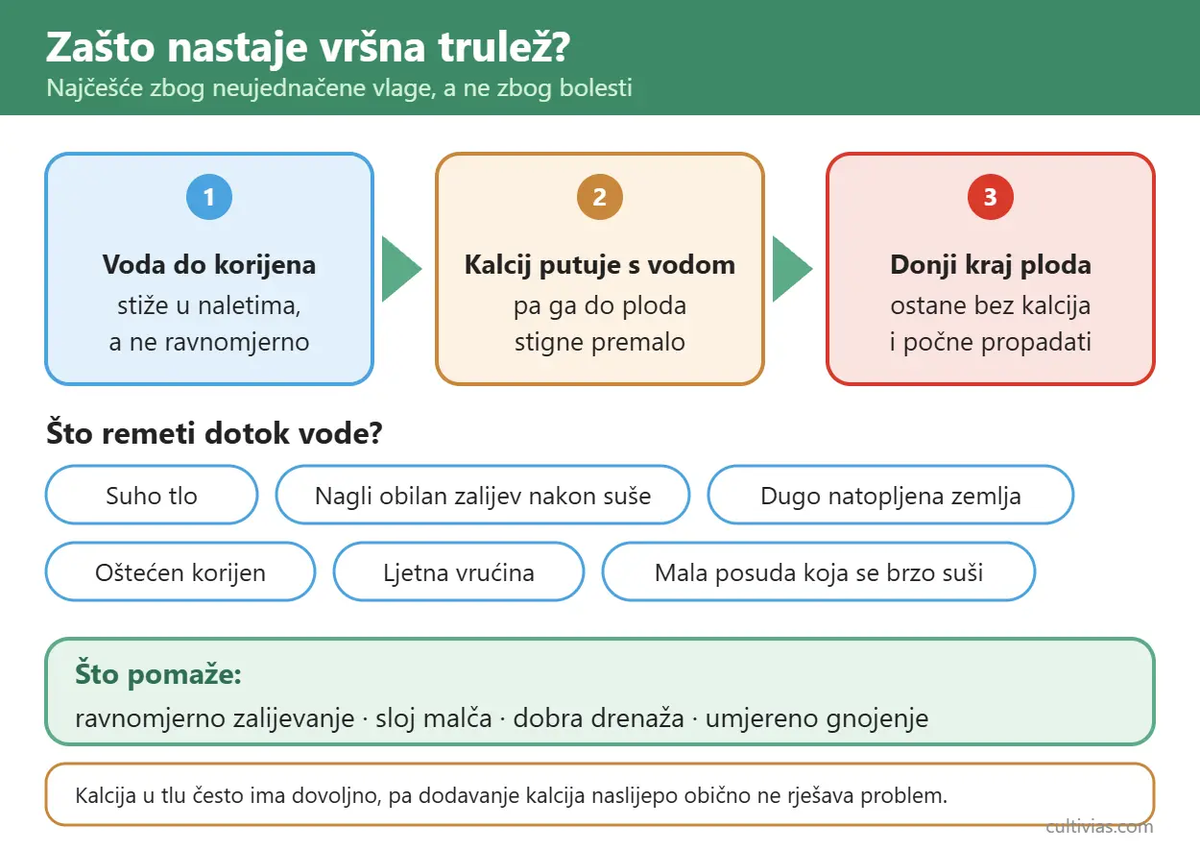
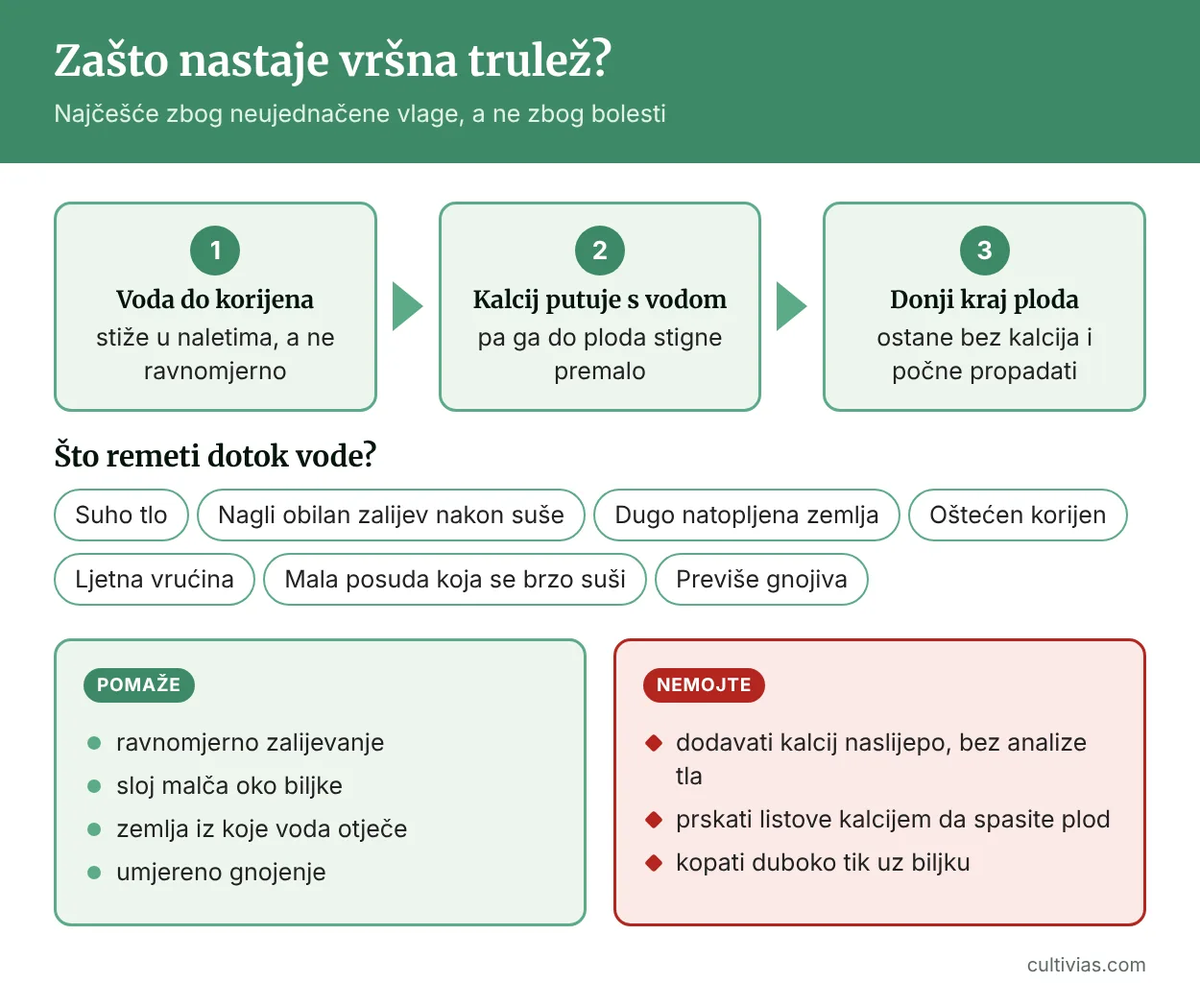
Rajčica (1/3): razmak, tegle, zalijevanje, vršna trulež – stil, linkovi, infografike
- Reference opisane na hrvatskom, više internih linkova s anchor tekstom
- Prerađene infografike: tegla, test prsta, vršna trulež (izgled i uzrok)
- Bez promjene informacija, updatedAt nije diran

Claude-Session: https://claude.ai/code/session_01EBi2SCu3iP7XhSy3L9WRfJ

Changed region(s): [[0.0, 0.0305, 1.0, 0.9763]]

diff --git a/src/content/articles/sadnja-rajcica-u-tegle-na-balkonu.md b/src/content/articles/sadnja-rajcica-u-tegle-na-balkonu.md
@@ -5,7 +5,7 @@ author: redakcija
 image: /images/articles/sadnja-rajcica-u-tegle-na-balkonu.webp
 perex: >-
   Rajčica u tegli uspijeva ako ima veliku posudu s rupama na dnu, najmanje šest sati izravnog sunca, rahlu zemlju za povrće i redovitu vlagu. Na balkonu je najlakše uzgajati niske rajčice. Visoke traže veću teglu, čvrst oslonac i češće vezivanje.
-readTime: 4
+readTime: 5
 publishedAt: 2026-11-20
 expert_reviewed: false
 featured: false
@@ -21,38 +21,38 @@ noindex: false
 ---
 ## Koju teglu i zemlju odabrati?
 
-Za jednu običnu rajčicu uzmite posudu od najmanje 15 litara. Za bujniju biljku radije uzmite 20 litara ili više. [Iowa State University Extension](https://yardandgarden.extension.iastate.edu/how-to/growing-tomatoes-containers) navodi najmanje četiri galona za standardne rajčice. [Oregon State University Extension](https://extension.oregonstate.edu/catalog/ec-1333-grow-your-own-tomatoes-tomatillos) za niske sorte traži posudu dubine najmanje 12 inča, to jest oko 30 cm. Veća tegla ima više mjesta za korijen i sporije se suši.
+Za jednu običnu [rajčicu](https://www.cultivias.com/bilje/sve-%C5%A1to-trebate-znati-o-raj%C4%8Dici-od-sadnje-do-zdravstvenih-benefita/) uzmite posudu od najmanje 15 litara, a za bujniju biljku radije 20 litara ili više. Savjetodavna služba Sveučilišta Iowa State (Iowa State University Extension), jedna od američkih sveučilišnih službi koje izdaju upute za vrtlare, [za standardne rajčice navodi](https://yardandgarden.extension.iastate.edu/how-to/growing-tomatoes-containers) najmanje četiri galona, odnosno oko 15 litara. Savjetodavna služba Sveučilišta Oregon State (Oregon State University Extension) [za niske sorte traži](https://extension.oregonstate.edu/catalog/ec-1333-grow-your-own-tomatoes-tomatillos) posudu duboku najmanje 12 inča, to jest oko 30 cm. U većoj tegli korijen ima više mjesta, a zemlja se sporije suši.
 
-Tegla mora imati nekoliko rupa na dnu. Ne stavljajte u nju zemlju iz vrta. Takva se zemlja u posudi zbija, a tegla postane teška za pomicanje. Kupite gotovu zemlju za povrće, to jest mješavinu za sadnju u posudama. Dobra mješavina propušta višak vode, ali je zadržava dovoljno dugo da je korijen stigne upiti.
+Tegla mora imati nekoliko rupa na dnu. Zemlju iz vrta nemojte stavljati u posudu, jer se u njoj zbija, a tegla postane preteška za pomicanje. Kupite gotovu zemlju za povrće, odnosno mješavinu za sadnju u posudama. Dobra mješavina propušta višak vode, ali je zadržava dovoljno dugo da je korijen stigne upiti.
 
-Rajčice su uglavnom niske ili visoke. Niske (grmolike) sorte prestanu rasti kad dosegnu određenu visinu. Stručno se zovu determinantne. Visoke sorte, stručno indeterminantne, rastu cijelu sezonu pa trebaju veću teglu i višu potporu. Razliku detaljnije objašnjava [pregled sorti rajčice](https://www.cultivias.com/povrce/sorte-paradajza-kompletan-vodi%C4%8D-kroz-determinantne-indeterminantne-i-druge-vrste/).
+Rajčice su uglavnom niske ili visoke. Niske, grmolike sorte prestanu rasti kad dosegnu određenu visinu i stručno se zovu [determinantne](https://www.cultivias.com/povrce/sorte-paradajza-kompletan-vodi%C4%8D-kroz-determinantne-indeterminantne-i-druge-vrste/). Visoke ili indeterminantne sorte rastu cijelu sezonu, pa trebaju veću teglu i višu potporu.
 
-![Infografika: što rajčici treba u tegli, od 15 litara volumena i dubine oko 30 cm do rupa za odvod vode, zemlje za povrće, štapa i jedne biljke po tegli](/images/articles/infografika-tegla-za-rajcicu.webp)
+![Infografika: što rajčici treba u tegli, od 15 litara volumena i dubine oko 30 cm do rupa za odvod vode, zemlje za povrće i štapa, uz upozorenje da se ne koristi vrtna zemlja i ne sade dvije rajčice u istu teglu](/images/articles/infografika-tegla-za-rajcicu.webp)
 
 ## Kako posaditi rajčicu korak po korak?
 
-Presadnica je mlada biljka koju kupite u rasadniku ili sami uzgojite iz sjemena. Iznesite je na balkon tek kad prođe opasnost od mraza. Prije toga je nekoliko dana privikavajte na vanjske uvjete: neka sve dulje boravi na svjetlu, vjetru i hladnijim noćima. Ako je sadnica uzgojena u kući, nemojte je prvog dana ostaviti cijelo poslijepodne na jakom suncu.
+Presadnica je mlada biljka koju kupite u rasadniku ili sami uzgojite iz sjemena. Na balkon je iznesite tek kad prođe opasnost od mraza. Prije toga je nekoliko dana privikavajte na vanjske uvjete: neka svaki dan sve dulje boravi na svjetlu, vjetru i hladnijem zraku. Sadnicu uzgojenu u kući nemojte prvog dana ostaviti cijelo poslijepodne na jakom suncu.
 
-1. Teglu napunite zemljom tako da korijen sadnice, zajedno sa zemljom oko njega, nakon sadnje bude malo ispod ruba tegle.
-2. Pažljivo izvadite sadnicu iz lončića i nemojte jako trgati korijen. Donje listove možete otkinuti pa stabljiku posaditi dublje. Rajčica na ukopanom dijelu stabljike razvija dodatno korijenje.
+1. Teglu napunite zemljom toliko da korijen sadnice, zajedno sa zemljom oko njega, nakon sadnje bude malo ispod ruba tegle.
+2. Pažljivo izvadite sadnicu iz lončića, bez trganja korijena. Donje listove možete otkinuti i stabljiku posaditi dublje, jer rajčica na ukopanom dijelu stabljike razvija dodatno korijenje.
 3. Dopunite zemlju, lagano je pritisnite i obilno zalijte, dok voda ne poteče kroz rupe na dnu.
-4. Odmah privežite stabljiku uz štap mekanom vrpcom. Visoke biljke ne ostavljajte bez oslonca. Pod težinom plodova lako polegnu.
+4. Stabljiku odmah privežite uz štap mekanom vrpcom. Visoke biljke ne ostavljajte bez oslonca, jer pod težinom plodova lako polegnu.
 
-Ne sadite dvije rajčice u jednu teglu od 15 ili 20 litara. Natječu se za vodu i hranu, a lišće se prebrzo zgusne.
+U jednu teglu od 15 ili 20 litara ne sadite dvije rajčice. Natječu se za vodu i hranu, a lišće se brzo previše zgusne.
 
 ## Kako zalijevati i gnojiti rajčicu u tegli?
 
-Zemlja neka bude stalno vlažna, ali ne blatna. Gurnite prst u zemlju. Ako je gornji sloj suh, zalijte polako, dok malo vode ne poteče ispod tegle. Ljeti, uz jako sunce i vjetar, rajčica u tegli može trebati vodu svaki dan, a ponekad i češće. [University of Minnesota Extension](https://extension.umn.edu/garden-and-home/yard-and-garden/gardening-in-minnesota/fertilizing-and-watering-container-plants) upozorava da posude ne smiju ostati potpuno suhe, ali ni stajati u vodi.
+Zemlja treba biti stalno vlažna, ali ne blatna. Gurnite prst u zemlju: ako je gornji sloj suh, zalijte polako, dok malo vode ne poteče ispod tegle. Ljeti, uz jako sunce i vjetar, rajčica u tegli može trebati vodu svaki dan, a ponekad i češće. Savjetodavna služba Sveučilišta Minnesota (University of Minnesota Extension) [upozorava](https://extension.umn.edu/garden-and-home/yard-and-garden/gardening-in-minnesota/fertilizing-and-watering-container-plants) da se zemlja u posudama ne smije potpuno isušiti, ali ni stajati u vodi.
 
-Vodu lijevajte uz zemlju, a ne po lišću, osobito ne predvečer. Neujednačeno zalijevanje potiče pucanje plodova i [vršnu trulež](https://www.cultivias.com/povrce/zasto-rajcica-trune-odozdo-vrsna-trulez/), a to je tamna, suha mrlja na donjem kraju ploda. Podložak ispod tegle redovito ispraznite. Više o zalijevanju čitajte u članku [Zalijevanje rajčica](https://www.cultivias.com/povrce/zalijevanje-rajcica-koliko-cesto-i-kako/).
+Vodu lijevajte uz zemlju, a ne po lišću, osobito ne predvečer. Neujednačeno zalijevanje potiče pucanje plodova i [vršnu trulež](https://www.cultivias.com/povrce/zasto-rajcica-trune-odozdo-vrsna-trulez/), tamnu, suhu mrlju na donjem kraju ploda. Podložak ispod tegle redovito praznite. Koliko često i kako zalijevati, opisuje članak o [zalijevanju rajčica](https://www.cultivias.com/povrce/zalijevanje-rajcica-koliko-cesto-i-kako/).
 
-Ako je u zemlji već gnojivo sporog djelovanja, koje se otapa postupno kroz više tjedana, s gnojenjem pričekajte i slijedite upute na pakiranju. Inače se tekuće gnojivo za plodovito povrće obično dodaje kad se biljka ukorijeni, često jednom u jedan do dva tjedna, ali uvijek prema uputi proizvođača. Više gnojiva ne znači raniju berbu.
+Ako u zemlji već ima gnojiva sporog djelovanja, koje se otapa postupno kroz više tjedana, s gnojenjem pričekajte i slijedite upute na pakiranju. Inače se tekuće gnojivo za plodovito povrće obično dodaje kad se biljka ukorijeni, najčešće jednom u jedan do dva tjedna, ali uvijek prema uputi proizvođača. Više gnojiva ne znači raniju berbu.
 
 ## Koje su najčešće pogreške na balkonu?
 
-Najčešće se griješi s premalom teglom, sjenovitim mjestom i povremenim obilnim zalijevanjem nakon što se zemlja potpuno osuši. Ako se biljka naginje, listovi su mlitavi ili voda odmah procuri uz rub tegle, provjerite korijen i kakva je zemlja.
+Najčešće se griješi s premalom teglom, sjenovitim mjestom i obilnim zalijevanjem tek kad se zemlja potpuno osuši. Ako se biljka naginje, listovi su mlitavi ili voda odmah procuri uz rub tegle, provjerite korijen i kakva je zemlja.
 
-Više praktičnih savjeta o sadnicama i dubljoj sadnji pronaći ćete u [Vodiču za sadnju rajčice](https://www.cultivias.com/povrce/vodi%C4%8D-za-sadnju-raj%C4%8Dice-sve-%C5%A1to-trebate-znati-za-obilan-urod/). Na balkonu najviše pažnje posvetite veličini tegle, suncu i vodi.
+Više savjeta o sadnicama i dubljoj sadnji pronaći ćete u [vodiču za sadnju rajčice](https://www.cultivias.com/povrce/vodi%C4%8D-za-sadnju-raj%C4%8Dice-sve-%C5%A1to-trebate-znati-za-obilan-urod/). Na balkonu najviše pažnje posvetite veličini tegle, suncu i vodi. U teglama se uz rajčicu lako uzgaja i bilje, poput [mente](https://www.cultivias.com/bilje/kako-uzgojiti-mentu-u-tegli-kod-ku%C4%87e/) ili [kamilice](https://www.cultivias.com/bilje/uzgoj-kamilice-na-balkonu-u-tegli-da-mogu%C4%87e-je/).
 
 ## Često postavljana pitanja
 
@@ -62,18 +62,18 @@ Može, ako je kanta čista, dovoljno velika i ima rupe za odvod vode. Za jednu o
 
 ### Koliko sunca treba balkonska rajčica?
 
-Najmanje šest sati izravnog sunca na dan. Što je mjesto sunčanije i toplije, to rajčica obično bolje raste i plodovi se brže zriju.
+Najmanje šest sati izravnog sunca na dan. Na sunčanijem i toplijem mjestu rajčica u pravilu bolje raste, a plodovi brže dozrijevaju.
 
 ### Treba li rajčici u tegli potpora?
 
-Da. I niske sorte često trebaju štap ili mali kavez, to jest okvir od žice u kojem se biljka drži. Visoke sorte traže čvršću potporu i redovito vezivanje.
+Da. I niske sorte često trebaju štap ili mali kavez, odnosno žičani okvir koji drži biljku. Visoke sorte traže čvršću potporu i redovito vezivanje.
 
 ### Zašto rajčica u tegli vene iako je zalivena?
 
-Mogući razlozi su premala tegla, začepljene rupe na dnu ili natopljena zemlja. Provjerite otječe li višak vode i je li zemlja oko korijena potpuno suha ili stalno mokra.
+Mogući su uzroci premala tegla, začepljene rupe na dnu ili natopljena zemlja. Provjerite otječe li višak vode i je li zemlja oko korijena potpuno suha ili stalno mokra.
 
 ## Izvori
 
-- [Iowa State University Extension and Outreach: Growing Tomatoes in Containers](https://yardandgarden.extension.iastate.edu/how-to/growing-tomatoes-containers)
-- [Oregon State University Extension Service: Grow your own tomatoes and tomatillos](https://extension.oregonstate.edu/catalog/ec-1333-grow-your-own-tomatoes-tomatillos)
-- [University of Minnesota Extension: Fertilizing and watering container plants](https://extension.umn.edu/garden-and-home/yard-and-garden/gardening-in-minnesota/fertilizing-and-watering-container-plants)
+- Savjetodavna služba Sveučilišta Iowa State (Iowa State University Extension and Outreach) – [Uzgoj rajčica u posudama (Growing Tomatoes in Containers)](https://yardandgarden.extension.iastate.edu/how-to/growing-tomatoes-containers)
+- Savjetodavna služba Sveučilišta Oregon State (Oregon State University Extension Service) – [Uzgojite vlastite rajčice i tomatilje (Grow your own tomatoes and tomatillos)](https://extension.oregonstate.edu/catalog/ec-1333-grow-your-own-tomatoes-tomatillos)
+- Savjetodavna služba Sveučilišta Minnesota (University of Minnesota Extension) – [Gnojenje i zalijevanje biljaka u posudama (Fertilizing and watering container plants)](https://extension.umn.edu/garden-and-home/yard-and-garden/gardening-in-minnesota/fertilizing-and-watering-container-plants)

diff --git a/src/content/articles/zalijevanje-rajcica-koliko-cesto-i-kako.md b/src/content/articles/zalijevanje-rajcica-koliko-cesto-i-kako.md
@@ -19,53 +19,54 @@ metaTitle: "Zalijevanje rajčica: koliko često i kako pravilno"
 metaDescription: "Saznajte koliko često zalijevati rajčice, koliko vode trebaju, kada zalijevati i kako izbjeći mokro lišće, pucanje plodova i vršnu trulež."
 noindex: false
 ---
+
 ## Što vam treba prije zalijevanja
 
-Dovoljni su kanta ili crijevo s blagim mlazom i mala lopatica. Ako želite mjeriti koliko je vode palo, može poslužiti kišomjer. Rajčica bolje iskoristi vodu kad ona polako prodre do korijena nego kad otječe po površini.
+Dovoljni su kanta ili crijevo s blagim mlazom i mala lopatica, a ako želite znati koliko je kiše palo, poslužit će i kišomjer. [Rajčica](https://www.cultivias.com/bilje/sve-%C5%A1to-trebate-znati-o-raj%C4%8Dici-od-sadnje-do-zdravstvenih-benefita/) bolje iskoristi vodu koja polako prodre do korijena nego onu koja otječe po površini.
 
-Oko biljke očistite korov i zemlju prekrijte slojem malča. Malč je sloj slame, suhe trave ili usitnjene kore koji štiti zemlju od sunca. Zbog njega voda sporije isparava, pa ćete na sunčanom mjestu zalijevati rjeđe. Ako rajčicu uzgajate u posudi, provjerite rupe na dnu: višak vode mora izaći, a ne ostati oko korijena.
+Oko biljke očistite korov i zemlju prekrijte slojem malča, odnosno slame, suhe trave ili usitnjene kore. Malč štiti zemlju od sunca, pa voda sporije isparava i na sunčanom mjestu zalijevate rjeđe. Ako rajčicu uzgajate [u posudi](https://www.cultivias.com/povrce/sadnja-rajcica-u-tegle-na-balkonu/), provjerite rupe na dnu: višak vode mora izaći, a ne ostati oko korijena.
 
-Kako pripremiti gredicu prije sadnje, pročitajte u [Vodiču za sadnju rajčice](https://www.cultivias.com/povrce/vodi%C4%8D-za-sadnju-raj%C4%8Dice-sve-%C5%A1to-trebate-znati-za-obilan-urod/).
+Kako pripremiti gredicu prije sadnje, opisuje [vodič za sadnju rajčice](https://www.cultivias.com/povrce/vodi%C4%8D-za-sadnju-raj%C4%8Dice-sve-%C5%A1to-trebate-znati-za-obilan-urod/).
 
 ## Kako zalijevati rajčice korak po korak
 
-Najlakši način da saznate treba li biljci voda je test prsta.
+Treba li biljci voda, najlakše ćete provjeriti testom prsta.
 
-![Infografika: test prsta, kako provjeriti vlagu zemlje na 5 cm dubine te zalijati kad je zemlja suha ili čekati kad je vlažna](/images/articles/infografika-test-prsta-zalijevanje.webp)
+![Infografika: test prsta, kako provjeriti vlagu zemlje na 5 cm dubine te zaliti kad je zemlja suha ili pričekati kad je vlažna, uz upozorenje da se ne zalijeva po lišću](/images/articles/infografika-test-prsta-zalijevanje.webp)
 
-1. **Najprije provjerite zemlju.** Maknite malč i gurnite prst ili lopaticu oko 5 cm duboko u zemlju. Ako je suho, zalijte biljku. Ako je vlažno, pričekajte i provjerite ponovno sutradan. Ovaj test preporučuje University of Minnesota Extension ([Watering the vegetable garden](https://extension.umn.edu/garden-and-home/yard-and-garden/gardening-in-minnesota/watering-the-vegetable-garden)).
-2. **Lijevajte vodu uz zemlju.** Zalijevajte pri dnu stabljike, polako, dok se zemlja ne navlaži dublje. Ne prskajte lišće i plodove. Mokro lišće, osobito navečer, lakše dobije bolesti.
-3. **Pustite da voda upije.** Ako se na površini stvaraju lokve ili voda otječe niz gredicu, smanjite mlaz i napravite kratku stanku. Zalijevanje samo po površini, ali često, potiče plitko korijenje. Temeljito zalijevanje bolje opskrbljuje biljku.
-4. **Provjerite koliko je duboko mokro.** Nakon zalijevanja lopaticom pogledajte koliko je zemlja duboko navlažena. Ako je mokar samo gornji centimetar ili dva, zalijevali ste prekratko.
+1. **Najprije provjerite zemlju.** Maknite malč i gurnite prst ili lopaticu oko 5 cm duboko u zemlju. Ako je suho, zalijte biljku. Ako je vlažno, pričekajte i provjerite ponovno sutradan. Taj test preporučuje savjetodavna služba Sveučilišta Minnesota (University of Minnesota Extension), jedna od američkih sveučilišnih službi koje izdaju upute za vrtlare, u uputama za [zalijevanje povrtnjaka](https://extension.umn.edu/garden-and-home/yard-and-garden/gardening-in-minnesota/watering-the-vegetable-garden).
+2. **Lijevajte vodu uz zemlju.** Zalijevajte polako, pri dnu stabljike, dok se zemlja ne navlaži dublje. Ne prskajte lišće i plodove, jer mokro lišće, osobito navečer, lakše oboli.
+3. **Pustite da se voda upije.** Ako se na površini stvaraju lokve ili voda otječe niz gredicu, smanjite mlaz i napravite kratku stanku. Često, plitko zalijevanje potiče plitko korijenje, a temeljito zalijevanje biljku bolje opskrbljuje vodom.
+4. **Provjerite koliko je duboko mokro.** Nakon zalijevanja lopaticom pogledajte do koje je dubine zemlja vlažna. Ako je mokar samo gornji centimetar ili dva, zalijevali ste prekratko.
 
 ## Koliko često zalijevati kroz sezonu?
 
-To ovisi o zemlji. U pjeskovitoj zemlji voda se brže gubi, pa zalijevanje može trebati oko dvaput tjedno. U težoj glinastoj zemlji, ili u zemlji s mnogo humusa (razgrađenih biljnih ostataka), često je dovoljan jedan temeljit termin tjedno, uz kišu koju također računate. U posudama se zemlja suši brže, osobito na vjetrovitom balkonu, pa je provjeravajte svaki dan.
+Ovisi o zemlji. Pjeskovita zemlja brže gubi vodu, pa zalijevanje može trebati otprilike dvaput tjedno. U težoj, glinastoj zemlji ili zemlji s mnogo humusa (razgrađenih biljnih ostataka) često je dovoljno jedno temeljito zalijevanje tjedno, uz kišu koju također računate. U posudama se zemlja suši brže, osobito na vjetrovitom balkonu, pa je provjeravajte svaki dan.
 
 | Uvjeti | Što učiniti |
 |---|---|
 | Vrtna zemlja s mnogo humusa | Redovito provjeravajte vlagu. Zalijevajte prema stanju zemlje, a ne prema danu u tjednu |
 | Pjeskovita zemlja | Zalijevajte češće, često dvaput tjedno |
 | Rajčica u posudi | Provjerite zemlju svaki dan. Zalijte kad se površina prosuši, ali ne ostavljajte posudu stalno u vodi |
-| Vrući i suhi dani | Zalijevajte rano ujutro. Kod jakog toplinskog vala provjerite zemlju i navečer |
+| Vrući i suhi dani | Zalijevajte rano ujutro. Za jakog toplinskog vala provjerite zemlju i navečer |
 
-University of Minnesota navodi da je zalijevanje rano ujutro bolje jer tada manje isparava. Kod ekstremne vrućine, s dnevnim temperaturama iznad 32 °C, povrće može trebati vodu svaki ili svaki drugi dan. Količinu ipak prilagodite vlazi zemlje ([Gardening in hot weather](https://extension.umn.edu/garden-and-home/yard-and-garden/gardening-in-minnesota/gardening-in-hot-weather)).
+Ista služba Sveučilišta Minnesota u uputama za [vrtlarenje po vrućini](https://extension.umn.edu/garden-and-home/yard-and-garden/gardening-in-minnesota/gardening-in-hot-weather) navodi da je bolje zalijevati rano ujutro, jer tada manje vode ispari. Kad su dnevne temperature iznad 32 °C, povrće može trebati vodu svaki ili svaki drugi dan. Količinu ipak prilagodite vlazi zemlje.
 
 ## Najčešće pogreške i provjera rezultata
 
-Najčešća je pogreška izmjena dugog suhog razdoblja i naglog natapanja. Takve oscilacije dok se plodovi razvijaju povezuju se s [vršnom truleži](https://www.cultivias.com/povrce/zasto-rajcica-trune-odozdo-vrsna-trulez/), a to je tamna mrlja na donjem kraju ploda, te s pucanjem plodova. Rajčici bolje odgovara ujednačena vlaga. Stalno mokra zemlja također šteti, jer istiskuje zrak iz prostora oko korijena i može oslabiti biljku.
+Najčešće se griješi kad se dugo suho razdoblje izmjenjuje s naglim natapanjem. Takve oscilacije dok se plodovi razvijaju povezuju se s pucanjem plodova i [vršnom truleži](https://www.cultivias.com/povrce/zasto-rajcica-trune-odozdo-vrsna-trulez/), tamnom mrljom na donjem kraju ploda. Rajčici najbolje odgovara ujednačena vlaga. Ni stalno mokra zemlja nije dobra, jer istiskuje zrak oko korijena i može oslabiti biljku.
 
-Nakon zalijevanja lišće bi trebalo ostati suho, a zemlja vlažna nekoliko centimetara ispod površine. Ako biljka vene usred dana, najprije provjerite zemlju. U velikoj vrućini lišće se može kratko objesiti i kad vode ima dovoljno. Ali ako je zemlja suha, zalijte odmah i nemojte čekati kišu.
+Nakon zalijevanja lišće treba ostati suho, a zemlja vlažna nekoliko centimetara ispod površine. Ako biljka vene usred dana, najprije provjerite zemlju. Po velikoj vrućini lišće se može nakratko objesiti i kad vode ima dovoljno, no ako je zemlja suha, zalijte odmah i ne čekajte kišu.
 
 ## Često postavljana pitanja
 
 ### Treba li rajčice zalijevati svaki dan?
 
-U pravilu ne. U vrtu zalijte tek kad je zemlja suha oko 5 cm duboko. Svaki dan provjeravajte posude i rajčice za vrijeme toplinskog vala.
+U pravilu ne. U vrtu zalijte tek kad je zemlja suha oko 5 cm duboko. Posude i rajčice za vrijeme toplinskog vala provjeravajte svaki dan.
 
 ### Je li bolje zalijevati rajčice ujutro ili navečer?
 
-Ujutro, jer tada manje isparava i lišće se tijekom dana stigne osušiti. Ako biljka vene, a zemlja je suha, zalijte je odmah, čak i ako nije jutro.
+Ujutro, jer tada manje vode ispari, a lišće se tijekom dana stigne osušiti. Ako biljka vene, a zemlja je suha, zalijte je odmah, bez obzira na doba dana.
 
 ### Smije li se zalijevati po listovima?
 
@@ -73,11 +74,11 @@ Bolje je lijevati vodu na zemlju uz stabljiku. Mokro lišće, osobito navečer, 
 
 ### Kako znam da sam rajčicu previše zalio?
 
-Zemlja je dugo natopljena, voda stoji u lokvama, a biljka djeluje klonulo iako je zemlja mokra. Pobrinite se da voda bolje otječe i pričekajte da se gornji sloj prosuši prije novog zalijevanja.
+Zemlja je dugo natopljena, voda stoji u lokvama, a biljka je klonula iako je zemlja mokra. Pobrinite se da voda bolje otječe i pričekajte da se gornji sloj prosuši prije sljedećeg zalijevanja.
 
 ## Izvori
 
-- [Utah State University Extension: How to Grow Tomatoes in Your Garden](https://extension.usu.edu/yardandgarden/research/tomatoes-in-the-garden)
-- [University of Minnesota Extension: Watering the vegetable garden](https://extension.umn.edu/garden-and-home/yard-and-garden/gardening-in-minnesota/watering-the-vegetable-garden)
-- [University of Minnesota Extension: Growing tomatoes in home gardens](https://extension.umn.edu/garden-and-home/yard-and-garden/gardening-in-minnesota/growing-tomatoes)
-- [University of Minnesota Extension: Gardening in hot weather](https://extension.umn.edu/garden-and-home/yard-and-garden/gardening-in-minnesota/gardening-in-hot-weather)
+- Savjetodavna služba Sveučilišta Utah (Utah State University Extension) – [Kako uzgojiti rajčice u vrtu (How to Grow Tomatoes in Your Garden)](https://extension.usu.edu/yardandgarden/research/tomatoes-in-the-garden)
+- Savjetodavna služba Sveučilišta Minnesota (University of Minnesota Extension) – [Zalijevanje povrtnjaka (Watering the vegetable garden)](https://extension.umn.edu/garden-and-home/yard-and-garden/gardening-in-minnesota/watering-the-vegetable-garden)
+- Savjetodavna služba Sveučilišta Minnesota (University of Minnesota Extension) – [Uzgoj rajčica u kućnim vrtovima (Growing tomatoes in home gardens)](https://extension.umn.edu/garden-and-home/yard-and-garden/gardening-in-minnesota/growing-tomatoes)
+- Savjetodavna služba Sveučilišta Minnesota (University of Minnesota Extension) – [Vrtlarenje po vrućini (Gardening in hot weather)](https://extension.umn.edu/garden-and-home/yard-and-garden/gardening-in-minnesota/gardening-in-hot-weather)

diff --git a/src/content/articles/zasto-rajcica-trune-odozdo-vrsna-trulez.md b/src/content/articles/zasto-rajcica-trune-odozdo-vrsna-trulez.md
@@ -19,25 +19,26 @@ metaTitle: "Zašto rajčica trune odozdo i kako spriječiti trulež"
 metaDescription: "Rajčica trune odozdo zbog vršne truleži, najčešće uz neujednačenu vlagu. Saznajte kako prepoznati problem i zaštititi nove plodove."
 noindex: false
 ---
+
 ## Kako izgleda vršna trulež
 
-Vršna trulež pojavljuje se na donjem kraju ploda. To je kraj nasuprot peteljke, ondje gdje je prije bio cvijet.
+Vršna trulež pojavljuje se na donjem kraju ploda, nasuprot peteljci, ondje gdje je prije bio cvijet.
 
-Počinje kao mala smeđa ili vodenasta mrlja. Zatim se mrlja širi i udubljuje. Na kraju postane tamna, suha i kožasta. Ponekad zahvati trećinu do pola ploda, opisuje [Oregon State University Extension Service](https://extension.oregonstate.edu/catalog/fs-139-blossom-end-rot-tomatoes).
+Počinje kao mala smeđa ili vodenasta mrlja, koja se zatim širi i udubljuje. Na kraju postane tamna, suha i kožasta. Savjetodavna služba Sveučilišta Oregon State (Oregon State University Extension Service), jedna od američkih sveučilišnih službi koje izdaju upute za vrtlare, u [priručniku o vršnoj truleži](https://extension.oregonstate.edu/catalog/fs-139-blossom-end-rot-tomatoes) navodi da ponekad zahvati trećinu do polovine ploda.
 
 ![Infografika: kako se vršna trulež razvija na rajčici u tri koraka te kako je razlikovati od drugih problema](/images/articles/infografika-vrsna-trulez-izgled.webp)
 
-Dobra vijest je da to nije gljivična ni bakterijska bolest. Ne širi se s biljke na biljku. Stručnjaci je zovu fiziološkim poremećajem, a to znači da je ne uzrokuju gljivice, bakterije ni štetnici, nego uvjeti u kojima biljka raste.
+Vršna trulež nije gljivična ni bakterijska bolest i ne širi se s biljke na biljku. Stručno se zove fiziološki poremećaj, što znači da je ne uzrokuju gljivice, bakterije ni štetnici, nego uvjeti u kojima biljka raste.
 
-Oštećeni plod se neće oporaviti. Ali novi plodovi mogu ostati zdravi ako popravite zalijevanje i uvjete oko korijena.
+Oštećeni plod se neće oporaviti, no novi plodovi mogu ostati zdravi ako popravite zalijevanje i uvjete oko korijena.
 
 ## Zašto nastaje vršna trulež
 
 Plodu je potreban kalcij. Kad ga na donjem kraju ploda nedostaje, tkivo ondje počne propadati.
 
-Kalcija u zemlji često ima dovoljno. Problem je u tome kako stiže do ploda. Biljka ga ne prenosi sama od sebe, nego ga voda nosi iz zemlje kroz stabljiku do plodova. Ako voda do korijena stiže u naletima, jednom premalo pa jednom previše, i kalcij do ploda stiže neravnomjerno. Tako navodi [University of Delaware Cooperative Extension](https://sites.udel.edu/weeklycropupdate/?p=22552).
+Kalcija u zemlji često ima dovoljno, ali ne stiže ravnomjerno do ploda. Biljka ga ne prenosi sama, nego ga voda nosi iz zemlje kroz stabljiku do plodova. Ako voda do korijena stiže u naletima, jednom premalo, a jednom previše, i kalcij do ploda stiže neravnomjerno. Tako to objašnjava savjetodavna služba Sveučilišta Delaware (University of Delaware Cooperative Extension) u [tekstu o sprječavanju vršne truleži](https://sites.udel.edu/weeklycropupdate/?p=22552).
 
-![Infografika: zašto nastaje vršna trulež, od neravnomjerne vode preko kalcija koji ne stiže do ploda do propadanja donjeg kraja ploda](/images/articles/infografika-vrsna-trulez-uzrok.webp)
+![Infografika: zašto nastaje vršna trulež, od neravnomjerne vode preko kalcija koji ne stiže do ploda do propadanja donjeg kraja ploda, uz popis onoga što pomaže i što ne treba raditi](/images/articles/infografika-vrsna-trulez-uzrok.webp)
 
 Dotok vode najčešće poremete ovi uvjeti:
 
@@ -52,27 +53,27 @@ Dotok vode najčešće poremete ovi uvjeti:
 
 ## Što učiniti, korak po korak
 
-1. **Provjerite vlagu dublje u zemlji.** Površina može izgledati mokro, a dublje je suho. Gurnite prst u zemlju. Zemlja treba biti ravnomjerno vlažna, ali ne blatna. Kako provjeriti vlagu, objašnjavamo u članku [Zalijevanje rajčica](https://www.cultivias.com/povrce/zalijevanje-rajcica-koliko-cesto-i-kako/).
-2. **Zalijevajte ravnomjerno.** Ne čekajte da biljka uvene pa joj onda odjednom dajte puno vode. U posudi provjeravajte vlagu češće, jer se posuda brže zagrije i osuši.
+1. **Provjerite vlagu dublje u zemlji.** Površina može izgledati mokro, a dublje je suho. Gurnite prst u zemlju: treba biti ravnomjerno vlažna, ali ne blatna. Kako provjeriti vlagu, objašnjava članak o [zalijevanju rajčica](https://www.cultivias.com/povrce/zalijevanje-rajcica-koliko-cesto-i-kako/).
+2. **Zalijevajte ravnomjerno.** Ne čekajte da biljka uvene pa joj onda odjednom dajte mnogo vode. [U posudi](https://www.cultivias.com/povrce/sadnja-rajcica-u-tegle-na-balkonu/) vlagu provjeravajte češće, jer se posuda brže zagrije i osuši.
 3. **Pokrijte zemlju malčem.** Malč je sloj organskog materijala, na primjer slame ili suhe pokošene trave, koji se stavlja oko biljke. Smanjuje isparavanje i ublažava nagle promjene vlage. Oko same stabljike ostavite malo slobodnog mjesta.
-4. **Pazite da voda može otjecati.** Posuda mora imati rupe na dnu, a gredica ne smije zadržavati vodu. Ne kopajte duboko tik uz biljku jer možete prerezati korijen.
-5. **Gnojite umjereno.** Ne dodajte kalcij naslijepo. Ako sumnjate da nešto nije u redu sa zemljom, korisnija je analiza tla (u laboratoriju provjere što u zemlji ima, a što joj nedostaje) nego dodatno gnojivo. Vršna trulež često nastaje zato što biljka kalcij slabo upija, a ne zato što ga u zemlji nema.
+4. **Pazite da voda može otjecati.** Posuda mora imati rupe na dnu, a gredica ne smije zadržavati vodu. Ne kopajte duboko tik uz biljku, jer možete prerezati korijen.
+5. **Gnojite umjereno.** Ne dodajte kalcij naslijepo. Ako sumnjate da nešto nije u redu sa zemljom, korisnija je analiza tla (laboratorijska provjera što zemlja sadrži, a što joj nedostaje) nego dodatno gnojivo. Vršna trulež najčešće nastaje zato što biljka kalcij slabo upija, a ne zato što ga u zemlji nema.
 
 ## Što ne raditi i kada potražiti savjet
 
-Ne pokušavajte spasiti već oštećeni plod prskanjem. [Royal Horticultural Society](https://www.rhs.org.uk/problems/blossom-end-rot) navodi da prskanje lišća kalcijem uglavnom ne pomaže, jer kalcij slabo prelazi iz listova u plod. Jako oštećene rajčice uklonite, a nove plodove pratite.
+Oštećeni plod ne pokušavajte spasiti prskanjem. Kraljevsko hortikulturno društvo (Royal Horticultural Society), britanska vrtlarska organizacija, [navodi](https://www.rhs.org.uk/problems/blossom-end-rot) da prskanje lišća kalcijem uglavnom ne pomaže, jer kalcij slabo prelazi iz listova u plod. Jako oštećene rajčice uklonite, a nove plodove pratite.
 
-Možda nije riječ o vršnoj truleži ako se mrlje pojavljuju i na listovima ili stabljici. Isto vrijedi ako je plod mekan i vlažan. Ako se problem ponavlja na cijeloj gredici, zatražite savjet lokalnog stručnjaka i razmislite o analizi tla. To je posebno važno ako voda loše otječe ili ste više puta gnojili.
+Možda nije riječ o vršnoj truleži ako se mrlje pojavljuju i na listovima ili stabljici ili ako je plod mekan i vlažan. Ako se problem ponavlja na cijeloj gredici, zatražite savjet lokalnog stručnjaka i razmislite o analizi tla. To vrijedi osobito ako voda loše otječe ili ste više puta gnojili.
 
 ## Kako smanjiti rizik u sljedećoj sezoni
 
-Prije sadnje odaberite mjesto s dobrom odvodnjom vode i pripremite rahlu zemlju. Unaprijed smislite kako ćete održavati vlagu tijekom vrućih dana. U posudi koristite dovoljno veliku teglu i ne ostavljajte je na mjestu gdje se zemlja svakog poslijepodneva potpuno osuši. Više savjeta o početku uzgoja pronaći ćete u [Vodiču za sadnju rajčice](https://www.cultivias.com/povrce/vodi%C4%8D-za-sadnju-raj%C4%8Dice-sve-%C5%A1to-trebate-znati-za-obilan-urod/).
+Prije sadnje odaberite mjesto s kojeg voda dobro otječe i pripremite rahlu zemlju. Unaprijed smislite kako ćete održavati vlagu tijekom vrućih dana. U posudi koristite dovoljno veliku teglu i ne ostavljajte je na mjestu gdje se zemlja svakog poslijepodneva potpuno osuši. Više savjeta o početku uzgoja donosi [vodič za sadnju rajčice](https://www.cultivias.com/povrce/vodi%C4%8D-za-sadnju-raj%C4%8Dice-sve-%C5%A1to-trebate-znati-za-obilan-urod/).
 
 ## Često postavljana pitanja
 
 ### Može li se pojesti dio rajčice bez mrlje?
 
-Ako je mrlja suha i ograničena, odrežite zahvaćeni dio zajedno s malo zdravog tkiva oko njega. Ostatak možete pojesti. Ako je plod mekan, vlažan, pljesniv ili neugodno miriše, bacite ga.
+Ako je mrlja suha i ograničena, odrežite zahvaćeni dio zajedno s malo zdravog tkiva oko njega, a ostatak možete pojesti. Ako je plod mekan, vlažan, pljesniv ili neugodno miriše, bacite ga.
 
 ### Je li vršna trulež zarazna?
 
@@ -84,10 +85,10 @@ Ne naslijepo. Najprije uredite zalijevanje i provjerite otječe li voda iz zemlj
 
 ### Zašto se problem češće vidi na velikim plodovima?
 
-Veliki i izduženi plodovi brzo rastu. U ranoj fazi rasta trebaju više vode i kalcija, pa se kod njih poremećaj lakše primijeti.
+Veliki i [izduženi plodovi](https://www.cultivias.com/povrce/sorte-paradajza-kompletan-vodi%C4%8D-kroz-determinantne-indeterminantne-i-druge-vrste/) brzo rastu. U ranoj fazi rasta trebaju više vode i kalcija, pa se kod njih poremećaj lakše primijeti. To vrijedi za svaku [rajčicu](https://www.cultivias.com/bilje/sve-%C5%A1to-trebate-znati-o-raj%C4%8Dici-od-sadnje-do-zdravstvenih-benefita/) koja naglo raste.
 
 ## Izvori
 
-- [OSU Extension Service: Blossom-end Rot of Tomatoes](https://extension.oregonstate.edu/catalog/fs-139-blossom-end-rot-tomatoes)
-- [Royal Horticultural Society: Blossom end rot](https://www.rhs.org.uk/problems/blossom-end-rot)
-- [University of Delaware Cooperative Extension: Avoiding Blossom End Rot](https://sites.udel.edu/weeklycropupdate/?p=22552)
+- Savjetodavna služba Sveučilišta Oregon State (Oregon State University Extension Service) – [Vršna trulež rajčice (Blossom-end Rot of Tomatoes)](https://extension.oregonstate.edu/catalog/fs-139-blossom-end-rot-tomatoes)
+- Kraljevsko hortikulturno društvo (Royal Horticultural Society), Velika Britanija – [Vršna trulež (Blossom end rot)](https://www.rhs.org.uk/problems/blossom-end-rot)
+- Savjetodavna služba Sveučilišta Delaware (University of Delaware Cooperative Extension) – [Kako izbjeći vršnu trulež (Avoiding Blossom End Rot)](https://sites.udel.edu/weeklycropupdate/?p=22552)

diff --git a/src/content/articles/razmak-sadnje-rajcica.md b/src/content/articles/razmak-sadnje-rajcica.md
@@ -21,7 +21,9 @@ noindex: false
 ---
 ## Koliki razmak odabrati za niske, visoke i cherry rajčice?
 
-Razmak birajte prema tome kako biljka raste i kako je podupirete, a ne samo prema imenu sorte. Niske (grmolike) rajčice prestanu rasti kad dosegnu određenu visinu, a stručno se zovu determinantne. Visoke, stručno indeterminantne, rastu cijelu sezonu. [University of Maryland Extension u vodiču za rajčice](https://extension.umd.edu/resource/growing-tomatoes-home-garden) navodi širi vrtni raspon: približno 45 do 90 cm između biljaka i 120 do 150 cm između redova.
+Razmak ovisi o tome kako biljka raste i kako je podupirete, a manje o imenu sorte. Niske, grmolike rajčice prestanu rasti kad dosegnu određenu visinu i stručno se zovu [determinantne](https://www.cultivias.com/povrce/sorte-paradajza-kompletan-vodi%C4%8D-kroz-determinantne-indeterminantne-i-druge-vrste/). Visoke, indeterminantne sorte rastu cijelu sezonu i trebaju više mjesta.
+
+Savjetodavna služba Sveučilišta Maryland (University of Maryland Extension), jedna od američkih sveučilišnih službi koje izdaju upute za vrtlare, u [vodiču za rajčice u kućnom vrtu](https://extension.umd.edu/resource/growing-tomatoes-home-garden) navodi širi raspon: približno 45 do 90 cm između biljaka i 120 do 150 cm između redova.
 
 ![Infografika: razmaci sadnje rajčica u centimetrima, pogled odozgo na gredicu te vrijednosti za niske i visoke sorte i za kavez](/images/articles/infografika-razmak-sadnje-rajcica.webp)
 
@@ -33,46 +35,46 @@ Razmak birajte prema tome kako biljka raste i kako je podupirete, a ne samo prem
 | Cherry, niska ili kompaktna | prema uputi na vrećici ili sadnici | prema širini biljke i prolazu | Je li biljka stvarno niska ili samo ima sitne plodove |
 | Cherry, visoka i bujna | kao za visoku rajčicu | kao za visoku rajčicu | Potpora i oblikovanje biljke |
 
-Tablica uspoređuje smjernice Utaha i Marylanda. Ne propisuje jedan razmak za svaki vrt. Maryland za kaveze navodi najmanje četiri stope, to jest oko 120 cm. Uputa za vašu sortu ima prednost pred pretpostavkom da su sve niske ili sve cherry biljke iste.
+Tablica objedinjuje smjernice savjetodavnih službi sveučilišta Utah i Maryland, pa ne propisuje jedan razmak za svaki vrt. Za kaveze Maryland navodi najmanje četiri stope, odnosno oko 120 cm. Uputa za vašu sortu uvijek ima prednost, jer nisu sve niske ili sve cherry rajčice jednako bujne.
 
 ## Zašto cherry rajčica može trebati mnogo prostora?
 
-Cherry znači samo da je plod sitan, otprilike veličine trešnje. Biljka može biti niska, ali može imati i duge, snažne izdanke. Zato na vrećici sjemena ili na sadnici potražite piše li da je biljka niska (determinantna) ili visoka (indeterminantna). Tu podjelu objašnjava [Cultiviasov pregled sorti rajčice](https://www.cultivias.com/povrce/sorte-paradajza-kompletan-vodi%C4%8D-kroz-determinantne-indeterminantne-i-druge-vrste/).
+Naziv cherry odnosi se samo na plod, koji je sitan, otprilike veličine trešnje. Biljka može biti niska, ali može imati i duge, snažne izdanke. Zato na vrećici sjemena ili na sadnici provjerite piše li da je biljka niska (determinantna) ili visoka (indeterminantna). Niske cherry sorte dobro uspijevaju i [u teglama na balkonu](https://www.cultivias.com/povrce/sadnja-rajcica-u-tegle-na-balkonu/).
 
-Visoke se rajčice tijekom sezone stalno izdužuju, pa potpora ne služi samo da plodovi ne leže na zemlji. Biljka na njoj i raste.
+Visoke rajčice izdužuju se cijelu sezonu. Potpora im zato ne služi samo da plodovi ne leže na zemlji, nego i da biljka uz nju raste.
 
 ## Kako izmjeriti razmak prije sadnje?
 
-Mjerite od sredine jedne rupe za sadnju do sredine sljedeće. Najprije uzicom označite red, postavite potpore i ostavite prolaz za zalijevanje i berbu. Tek onda rasporedite sadnice.
+Razmak se mjeri od sredine jedne rupe za sadnju do sredine sljedeće. Najprije uzicom označite red, postavite potpore i ostavite prolaz za [zalijevanje](https://www.cultivias.com/povrce/zalijevanje-rajcica-koliko-cesto-i-kako/) i berbu. Tek tada rasporedite sadnice.
 
-[University of Minnesota Extension u uputama za vrtne rajčice](https://extension.umn.edu/vegetables/growing-tomatoes) preporučuje da se potpora postavi već pri sadnji. Ako kavez dodate tek kad se biljka razgrana, možete oštetiti korijen i izdanke. Ostale korake pročitajte u [vodiču za sadnju rajčice](https://www.cultivias.com/povrce/vodi%C4%8D-za-sadnju-raj%C4%8Dice-sve-%C5%A1to-trebate-znati-za-obilan-urod/).
+Savjetodavna služba Sveučilišta Minnesota (University of Minnesota Extension) u [uputama za rajčice u vrtu](https://extension.umn.edu/vegetables/growing-tomatoes) preporučuje da se potpora postavi već pri sadnji. Ako kavez dodate tek kad se biljka razgrana, možete oštetiti korijen i izdanke. Ostale korake opisuje [vodič za sadnju rajčice](https://www.cultivias.com/povrce/vodi%C4%8D-za-sadnju-raj%C4%8Dice-sve-%C5%A1to-trebate-znati-za-obilan-urod/).
 
 ## Koja je najčešća pogreška?
 
-**Najčešća je pogreška ostaviti premalo mjesta za odraslu biljku.** Male sadnice u proljeće izgledaju kao da su daleko jedna od druge. Kasnije im se krošnje spoje i zatvore prolaz. Lišće se dodiruje, a vezanje i berba postaju teži.
+**Najčešće se odraslim biljkama ostavi premalo mjesta.** U proljeće male sadnice izgledaju daleko jedna od druge, no do ljeta im se krošnje spoje i zatvore prolaz. Lišće se dodiruje, a vezanje i berba postaju teži.
 
-Ne skraćujte prolaz između redova da biste smjestili više biljaka. Ako ne znate koliko je sorta bujna, pročitajte uputu na vrećici sjemena ili pitajte u rasadniku.
+Ne skraćujte prolaz između redova kako biste smjestili još koju biljku. Ako ne znate koliko je sorta bujna, pročitajte uputu na vrećici sjemena ili pitajte u rasadniku.
 
 ## Često postavljana pitanja
 
 ### Koliki je razmak sadnje niskih rajčica?
 
-Za početak 45 do 60 cm u redu. Koliko točno, ovisi o bujnosti sorte i uputi na vrećici ili sadnici.
+Za početak 45 do 60 cm u redu. Točan razmak ovisi o bujnosti sorte i uputi na vrećici ili sadnici.
 
 ### Koliki razmak trebaju rajčice u kavezu?
 
-Maryland preporučuje najmanje oko 120 cm između kaveza. To je više nego kod rajčica vezanih uz uski kolac.
+Savjetodavna služba Sveučilišta Maryland preporučuje najmanje oko 120 cm između kaveza. To je više nego za rajčice vezane uz uski kolac.
 
 ### Sade li se cherry rajčice gušće?
 
-Ne automatski. Provjerite je li biljka niska ili visoka i bujna.
+Ne automatski. Najprije provjerite je li biljka niska ili visoka i bujna.
 
 ### Je li razmak od 30 cm dovoljan?
 
-Za vrtne rajčice nemojte ga uzimati kao pravilo. Tako gusto smijete saditi samo ako uputa kaže da je sorta vrlo kompaktna.
+Za [rajčice](https://www.cultivias.com/bilje/sve-%C5%A1to-trebate-znati-o-raj%C4%8Dici-od-sadnje-do-zdravstvenih-benefita/) u vrtu to nije pravilo. Tako gusto sadite samo ako uputa kaže da je sorta vrlo kompaktna.
 
 ## Izvori
 
-- [Utah State University Extension: Planting, Spacing & Thinning](https://extension.usu.edu/vegetableguide/tomato-pepper-eggplant/planting-spacing)
-- [University of Maryland Extension: Growing Tomatoes in a Home Garden](https://extension.umd.edu/resource/growing-tomatoes-home-garden)
-- [University of Minnesota Extension: Growing tomatoes in home gardens](https://extension.umn.edu/vegetables/growing-tomatoes)
+- Savjetodavna služba Sveučilišta Utah (Utah State University Extension) – [Sadnja, razmak i prorjeđivanje (Planting, Spacing & Thinning)](https://extension.usu.edu/vegetableguide/tomato-pepper-eggplant/planting-spacing)
+- Savjetodavna služba Sveučilišta Maryland (University of Maryland Extension) – [Uzgoj rajčica u kućnom vrtu (Growing Tomatoes in a Home Garden)](https://extension.umd.edu/resource/growing-tomatoes-home-garden)
+- Savjetodavna služba Sveučilišta Minnesota (University of Minnesota Extension) – [Uzgoj rajčica u kućnim vrtovima (Growing tomatoes in home gardens)](https://extension.umn.edu/vegetables/growing-tomatoes)
